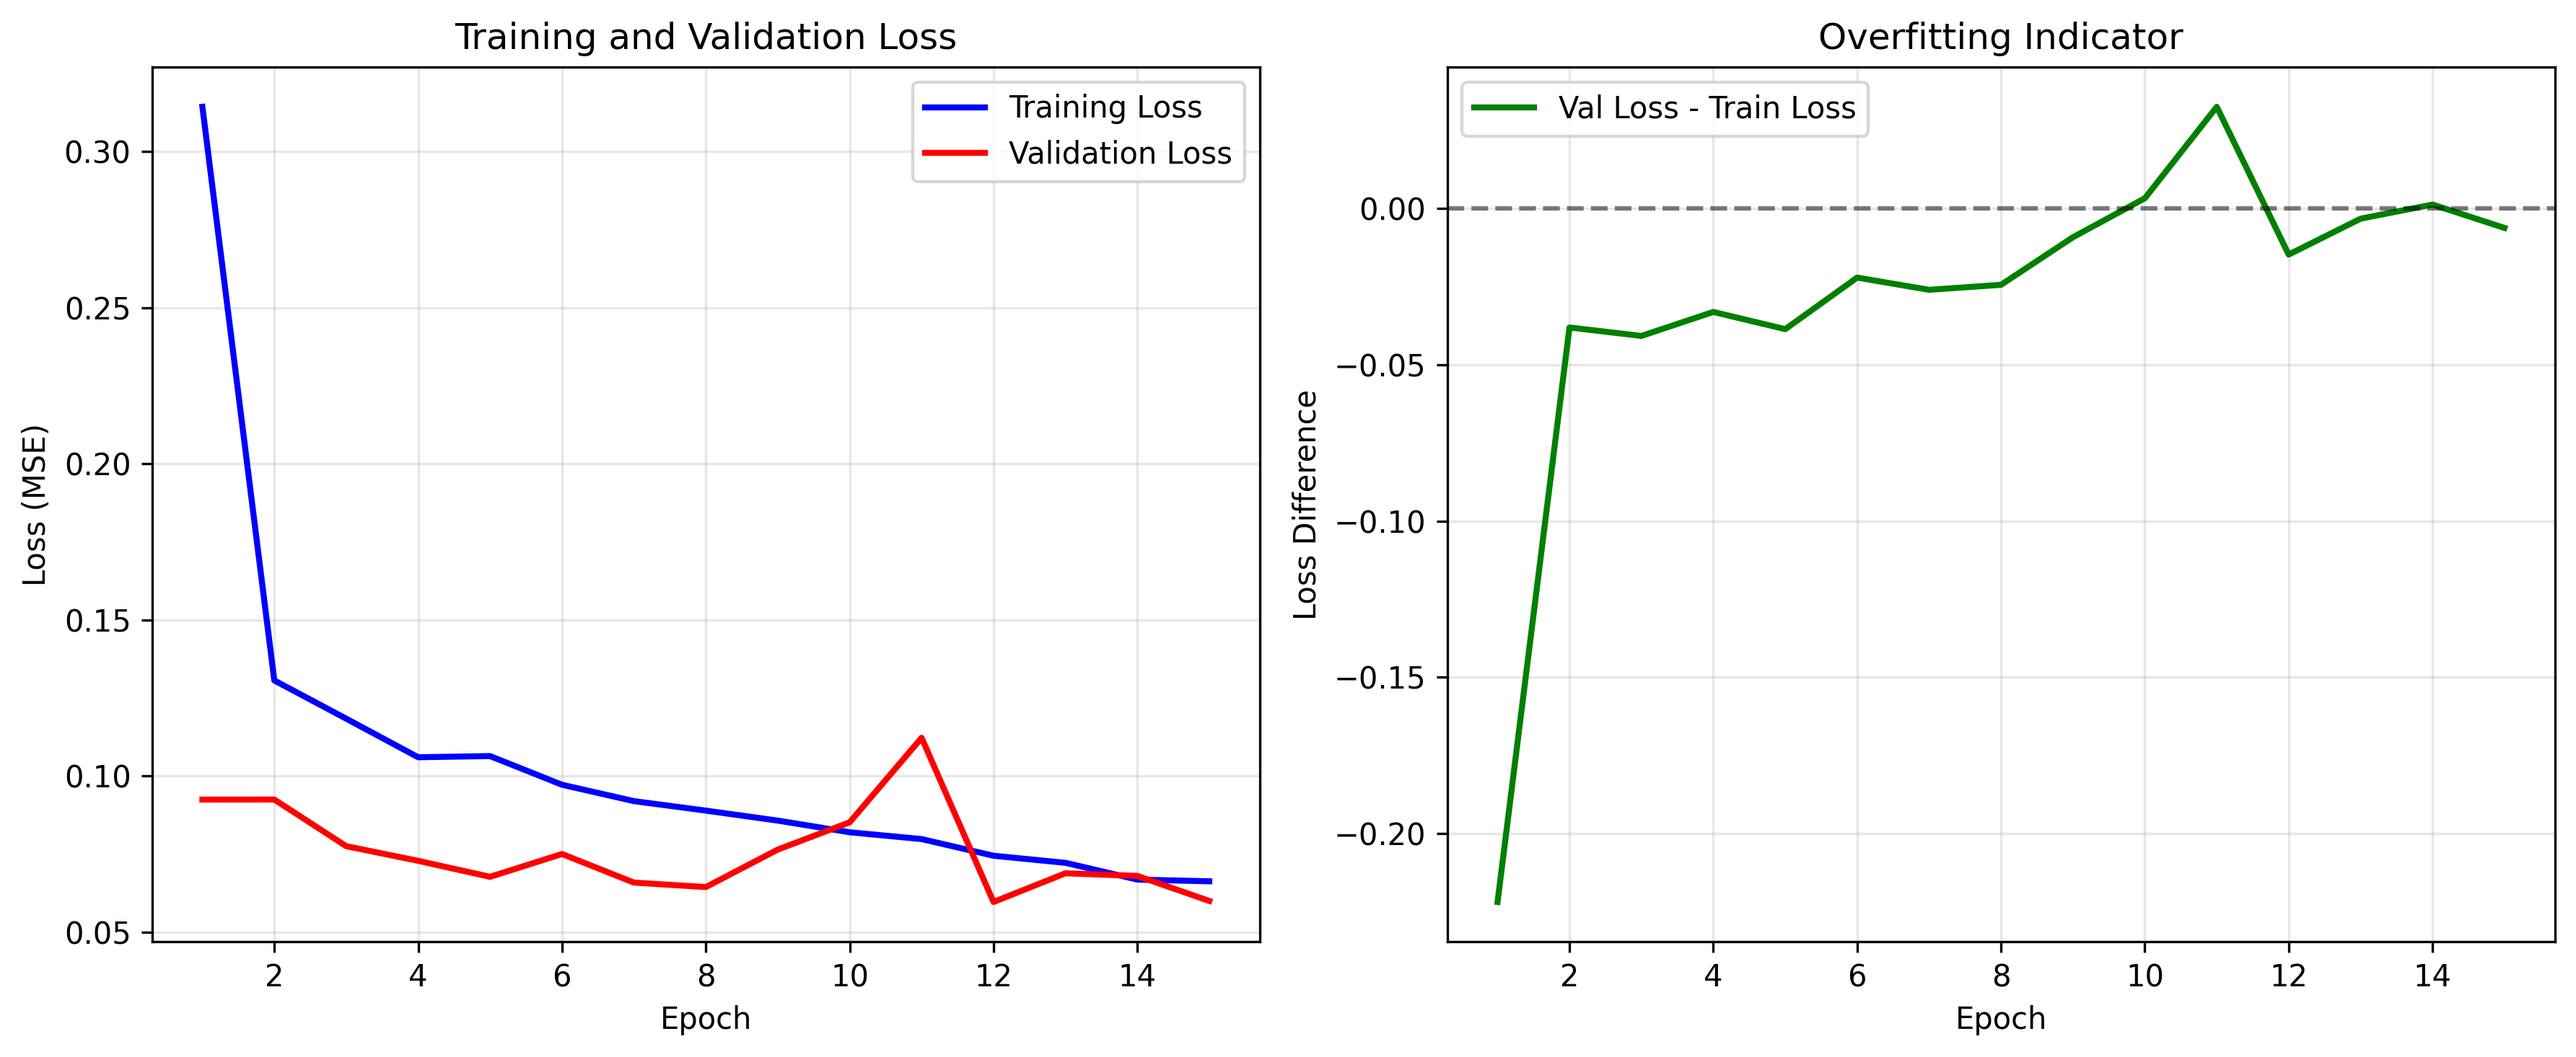
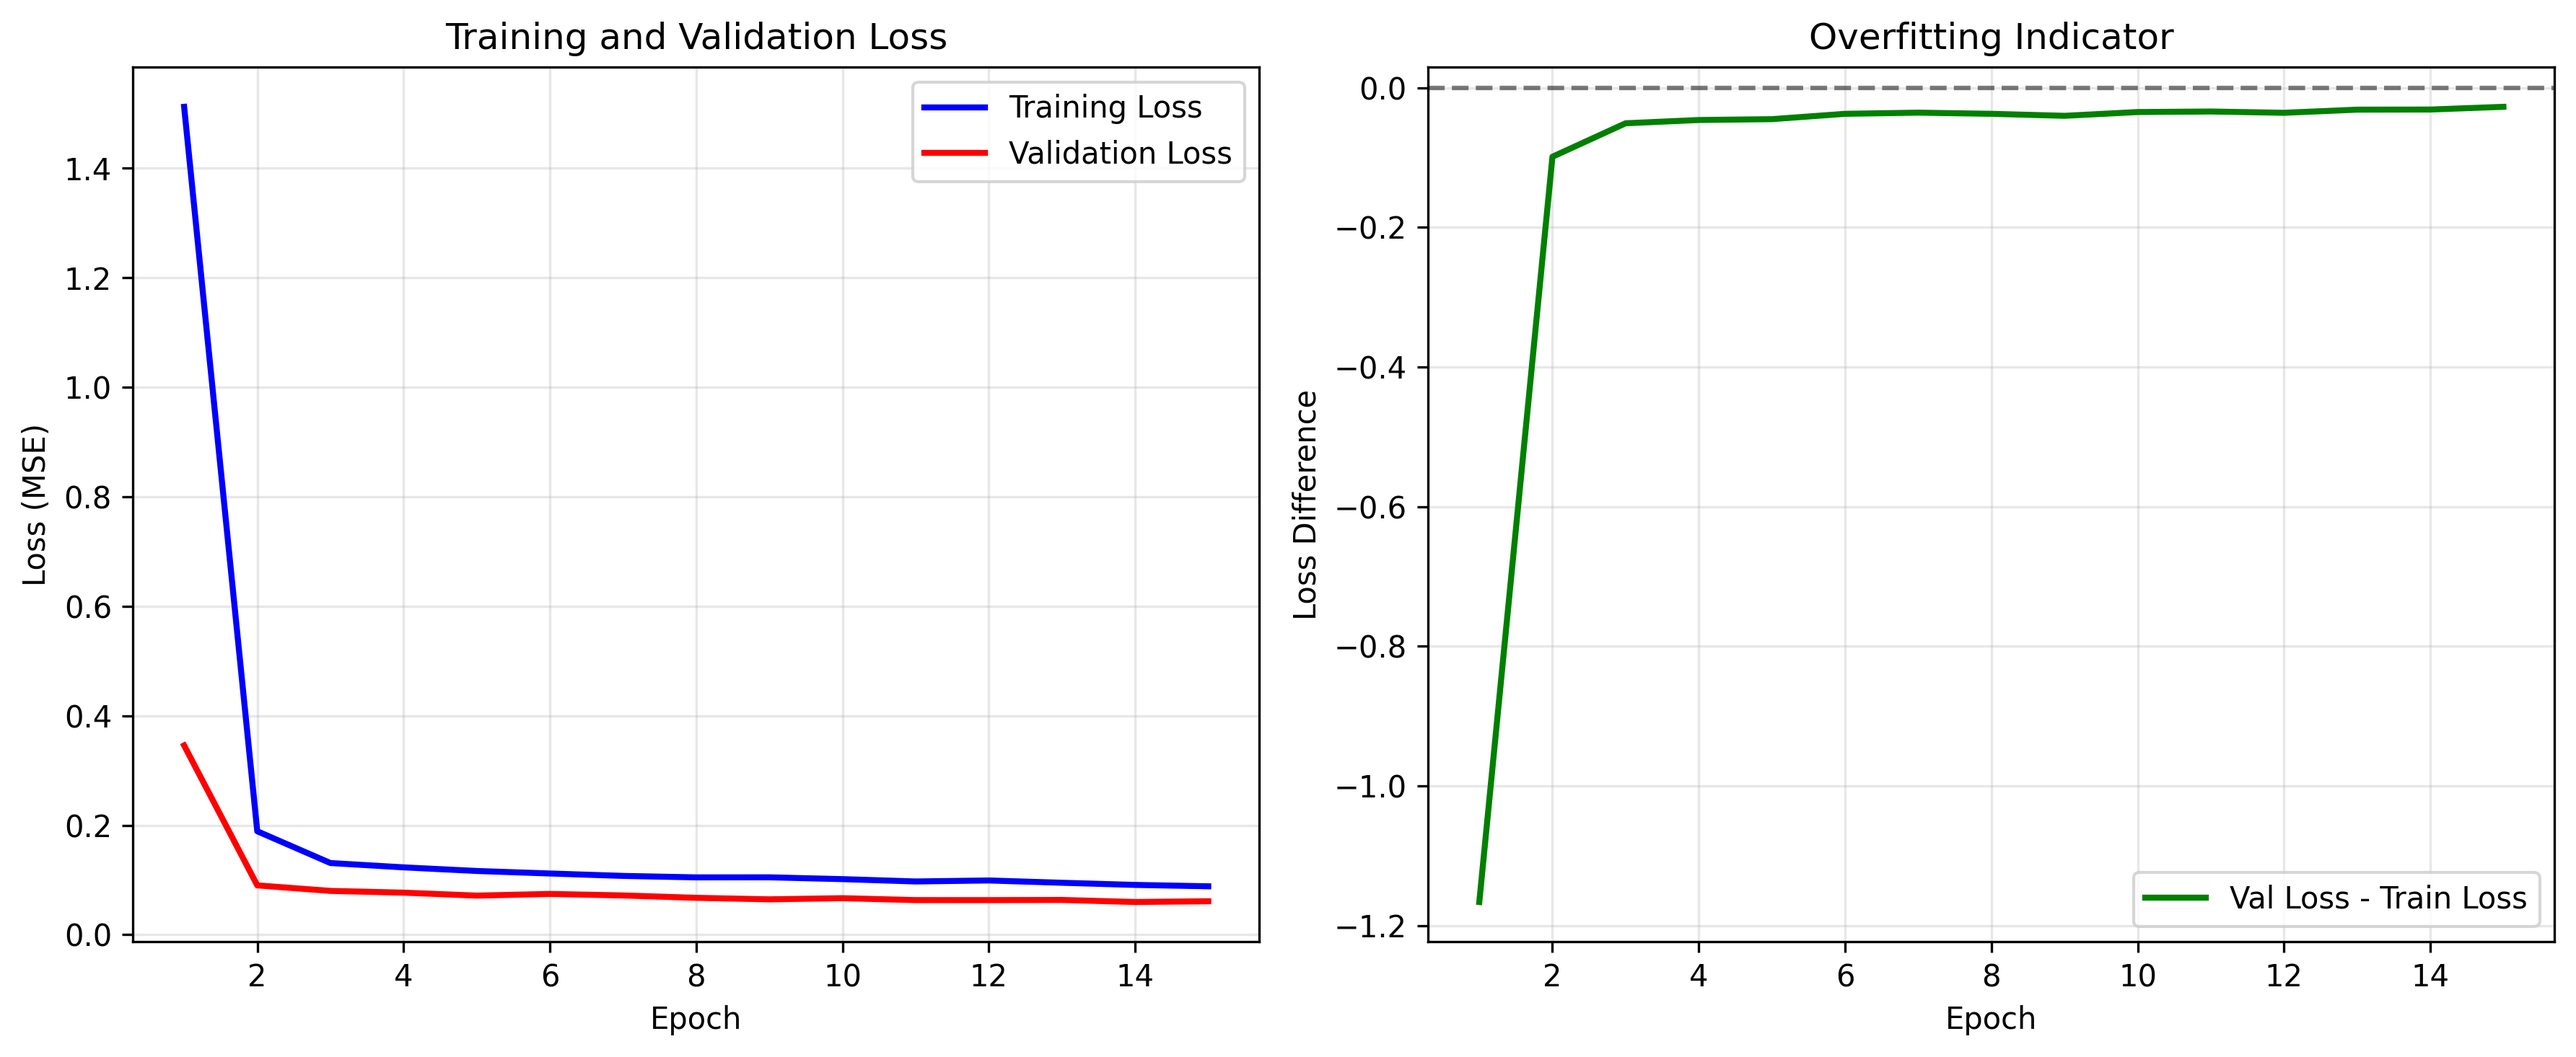
update

diff --git a/src/gan.py b/src/gan.py
@@ -23,7 +23,7 @@ from logger import Logger
 logger = Logger()
 
 LEARNING_RATE_G = 4e-5
-LEARNING_RATE_D = 5e-5
+LEARNING_RATE_D = 8e-5
 
 torch.backends.cuda.matmul.allow_tf32 = True
 torch.backends.cudnn.allow_tf32 = True
@@ -61,6 +61,8 @@ class PerceptualLoss(nn.Module):
         input_features = self.vgg(input_norm)
         target_features = self.vgg(target_norm)
         return F.mse_loss(input_features, target_features)
+
+# of course they like boats! thats completely sure!
 
 class StyleGANEncoder(nn.Module):
    def __init__(self, latent_dim=1024, image_size=256):
@@ -617,8 +619,8 @@ def main():
     device = torch.device('cuda' if torch.cuda.is_available() else 'cpu')
     image_size = 256
     latent_dim = 1024
-    batch_size = 256      # without perceptual loss
-    # batch_size = 64
+    batch_size = 320      # without perceptual loss
+    # batch_size = 72
     epochs = 100
 
     transform = transforms.Compose([
@@ -653,16 +655,16 @@ def main():
     dataloader = DataLoader(dataset, batch_size=batch_size, shuffle=True, num_workers=10, pin_memory=True,
                             persistent_workers=False, prefetch_factor=4)
 
-    gan = BeautyGAN(
-        latent_dim=latent_dim,
-        image_size=image_size,
-        device=device,
-        # use_perceptual_loss=True
-    )
+    # gan = BeautyGAN(
+    #     latent_dim=latent_dim,
+    #     image_size=image_size,
+    #     device=device,
+    #     use_perceptual_loss=True
+    # )
 
-    print("Training GAN...")
-    gan.train(dataloader, epochs=epochs)
-    print("GAN training complete!")
+    # print("Training GAN...")
+    # gan.train(dataloader, epochs=epochs)
+    # print("GAN training complete!")
 
     # sample1 = dataset[0]
     # sample2 = dataset[1]
@@ -676,22 +678,22 @@ def main():
 
 
     # load the model
-    # gan: BeautyGAN = load_pretrained_beauty_gan("checkpoints/models_only", device=device)
+    gan: BeautyGAN = load_pretrained_beauty_gan("checkpoints/models_only", device=device)
 
-    # for param_group in gan.opt_g.param_groups:
-    #     param_group['lr'] = LEARNING_RATE_G
-    # for param_group in gan.opt_d.param_groups:
-    #     param_group['lr'] = LEARNING_RATE_D
+    for param_group in gan.opt_g.param_groups:
+        param_group['lr'] = LEARNING_RATE_G
+    for param_group in gan.opt_d.param_groups:
+        param_group['lr'] = LEARNING_RATE_D
 
 
     # gan = resume_training(
-    #     checkpoint_path="checkpoints/checkpoint_epoch_100.pth",
+    #     checkpoint_path="checkpoints/checkpoint_epoch_065.pth",
     #     dataloader=dataloader,
     #     remaining_epochs=epochs,
     #     device=device
     # )
 
-    gan.use_perceptual_loss = True
+    # gan.use_perceptual_loss = False
     print("Pretrained GAN loaded successfully! now training on ")
     gan.train(dataloader, epochs=epochs, save_every=5, checkpoint_dir="checkpoints")
 

diff --git a/src/data_preperation.py b/src/data_preperation.py
@@ -108,7 +108,8 @@ def process_image(path: str, output_dir: str):
 
 if __name__ == "__main__":
 
-    dir_path = "res/data_celeba"
+    # dir_path = "res/data_celeba"
+    dir_path = "res/data_thispersondoesnotexist"
 
     for file_name in os.listdir(dir_path):
         if file_name.endswith('.jpg'):
